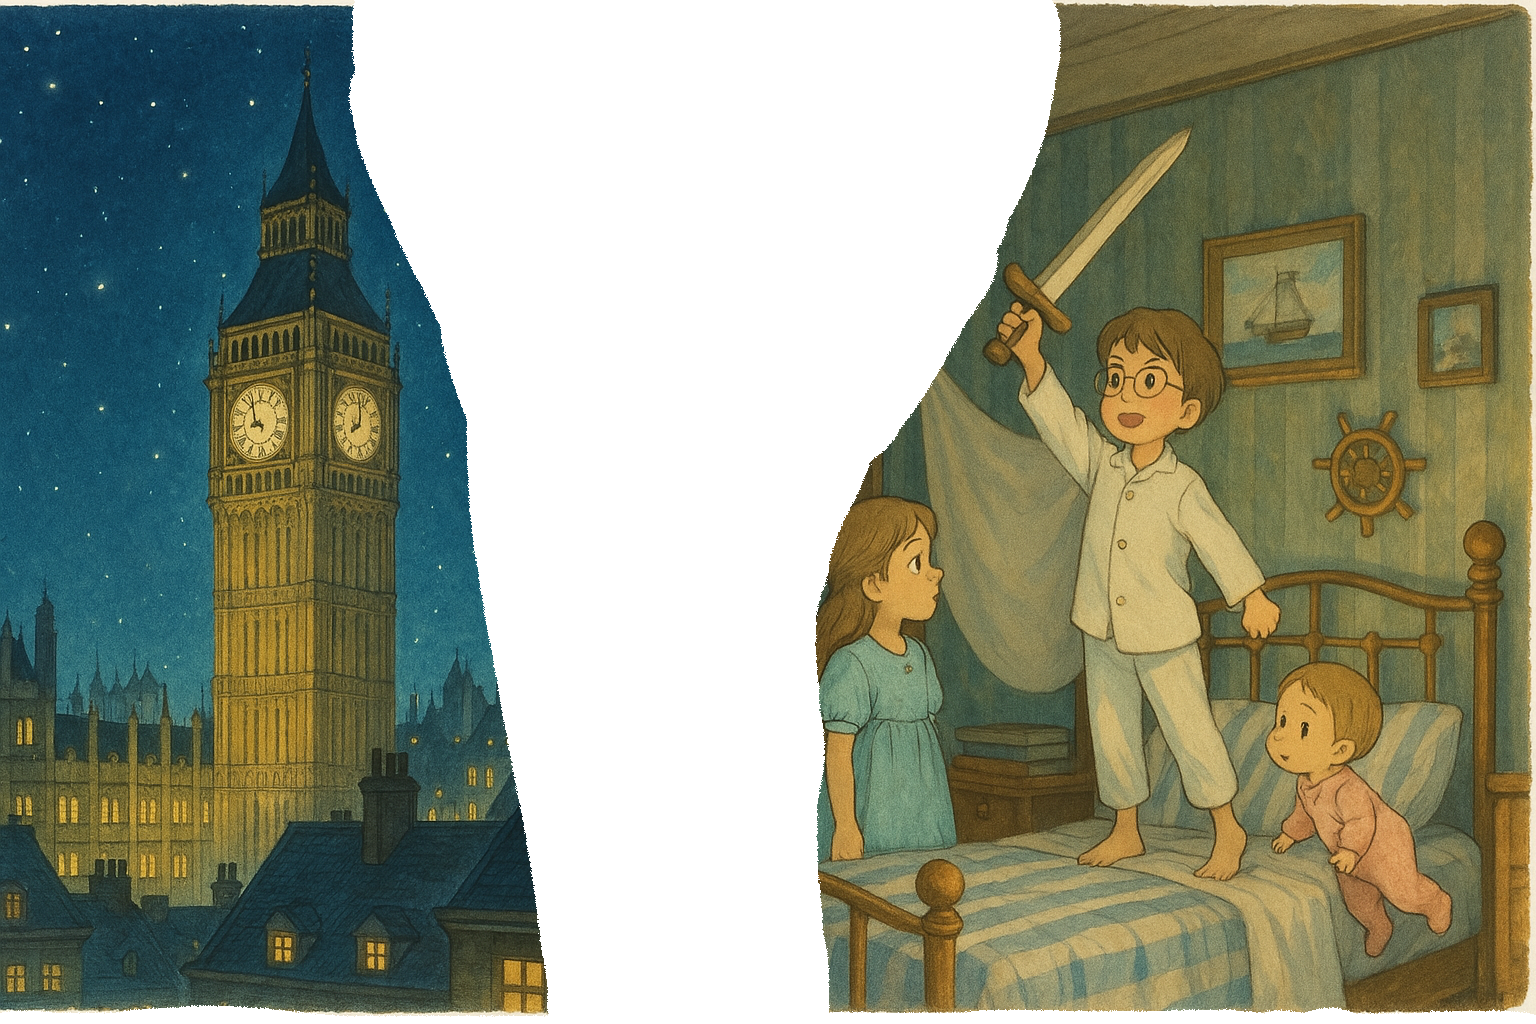
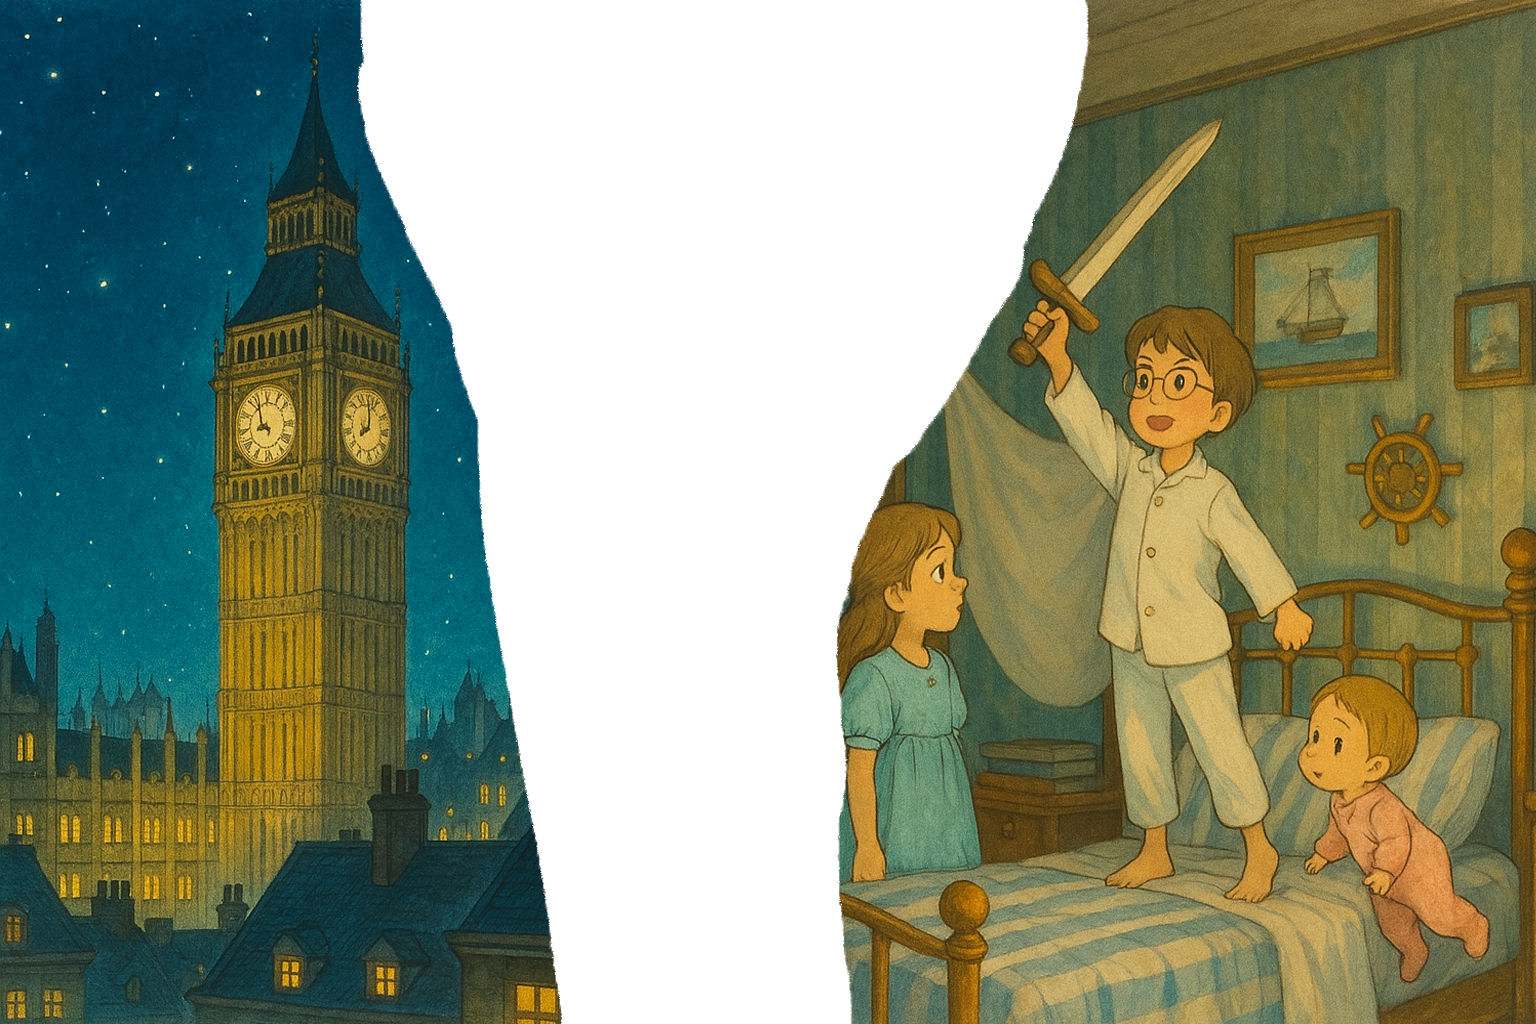
parallax effect deleted from video, im gonna apply a new method

diff --git a/course-project-parallax/src/pages/Parallax.jsx b/course-project-parallax/src/pages/Parallax.jsx
@@ -1,36 +1,23 @@
+import { useScroll, useTransform, motion } from "framer-motion";
+import { useEffect, useRef } from "react";
+import { ParallaxProvider } from "react-scroll-parallax";
+import { useParallax } from "react-scroll-parallax";
+import { ParallaxBanner, ParallaxBannerLayer } from "react-scroll-parallax";
 import FairydustCursor from "../components/FairydustCursor.jsx";
-import Sound from "../components/Sound.jsx";
-import HamburgerMenu from "../components/HamburgerMenu.jsx";
-import Logo from "../assets/Images-web/Logo_ErWasEens.svg";
+import HeaderParallax from "../components/HeaderParallax.jsx";
+import Stars from "../assets/Images-web/Sterstelsel.png";
+import Brothers from "../assets/Images-web/londen-littleguys.png";
+import Bigstar from "../assets/Images-web/Starwithstars.png";
+
 function Parallax() {
 	return (
 		<>
-			<div className="fairy-cursor">
-				<div className="parallax">
+			<ParallaxProvider>
+				<div className="fairy-cursor">
 					<FairydustCursor />
-					<div className="header-parallax">
-						<div className="logo-container">
-							<div className="logo-parallax">
-								<img src={Logo}></img>
-							</div>
-						</div>
-						<div className="music-container">
-							<Sound />
-						</div>
-						<div className="hamburger-container">
-							<HamburgerMenu />
-						</div>
-					</div>
-					<div className="main-title">
-						<h1>Discover the magic world of Peter Pan</h1>
-					</div>
-					<div className="parallax-button">
-						<a href="/parallax">
-							<button className="parallax-btn">Discover now</button>
-						</a>
-					</div>
+					<HeaderParallax />
 				</div>
-			</div>
+			</ParallaxProvider>
 		</>
 	);
 }

diff --git a/course-project-parallax/src/pages/FirstpageParallax.jsx b/course-project-parallax/src/pages/FirstpageParallax.jsx
@@ -1,0 +1,24 @@
+import FairydustCursor from "../components/FairydustCursor.jsx";
+import HeaderParallax from "../components/HeaderParallax.jsx";
+
+function FirstpageParallax() {
+	return (
+		<>
+			<div className="fairy-cursor">
+				<div className="parallax">
+					<FairydustCursor />
+					<HeaderParallax />
+					<div className="main-title">
+						<h1>Discover the magic world of Peter Pan</h1>
+					</div>
+					<div className="parallax-button">
+						<a href="/parallax">
+							<button className="parallax-btn">Discover now</button>
+						</a>
+					</div>
+				</div>
+			</div>
+		</>
+	);
+}
+export default FirstpageParallax;

diff --git a/course-project-parallax/src/components/HeaderParallax.jsx b/course-project-parallax/src/components/HeaderParallax.jsx
@@ -1,0 +1,21 @@
+import Sound from "../components/Sound.jsx";
+import HamburgerMenu from "../components/HamburgerMenu.jsx";
+import Logo from "../assets/Images-web/Logo_ErWasEens.svg";
+function HeaderParallax() {
+	return (
+		<div className="header-parallax">
+			<div className="logo-container">
+				<div className="logo-parallax">
+					<img src={Logo}></img>
+				</div>
+			</div>
+			<div className="music-container">
+				<Sound />
+			</div>
+			<div className="hamburger-container">
+				<HamburgerMenu />
+			</div>
+		</div>
+	);
+}
+export default HeaderParallax;

diff --git a/course-project-parallax/src/index.css b/course-project-parallax/src/index.css
@@ -286,7 +286,7 @@ footer {
 	font-size: 16px;
 	display: flex;
 }
-/*Parallax Website*/
+/*Firstpage Parallax Website*/
 .parallax {
 	background-image: url("./assets/Images-web/Sterstelsel.png");
 	width: 100vw;
@@ -445,3 +445,5 @@ footer {
 	transform: scale(1.1);
 	transition: transform 0.2s ease;
 }
+/*Main Parallax Website*/
+

diff --git a/course-project-parallax/src/App.jsx b/course-project-parallax/src/App.jsx
@@ -6,6 +6,7 @@ import Home from "./pages/Home.jsx";
 import Projects from "./pages/Projects.jsx";
 import MakingOf from "./pages/MakingOf.jsx";
 import Parallax from "./pages/Parallax.jsx";
+import FirstpageParallax from "./pages/FirstpageParallax.jsx";
 
 function App() {
 	return (

diff --git a/README.md b/README.md
@@ -11,3 +11,4 @@
 8. [YT VIDEO: Play music button in Sound.jsx]-(https://www.youtube.com/watch?v=U1T_J6Odoqg)
 9. [CLAUDE: Fix the error from the YT VIDEO for the music play]-(https://claude.ai/chat/5657f08b-f8a8-4225-9ef5-deee95fb19a7)
 10. [CLAUDE: Hamburgermenu]-(https://claude.ai/chat/5ebbb0c2-70d0-4b5a-bc75-08f866fbb409)
+11. [YT VIDEO: Scroll parallax animation]-(https://www.youtube.com/watch?v=nZ2LDB7Q7Rk)
